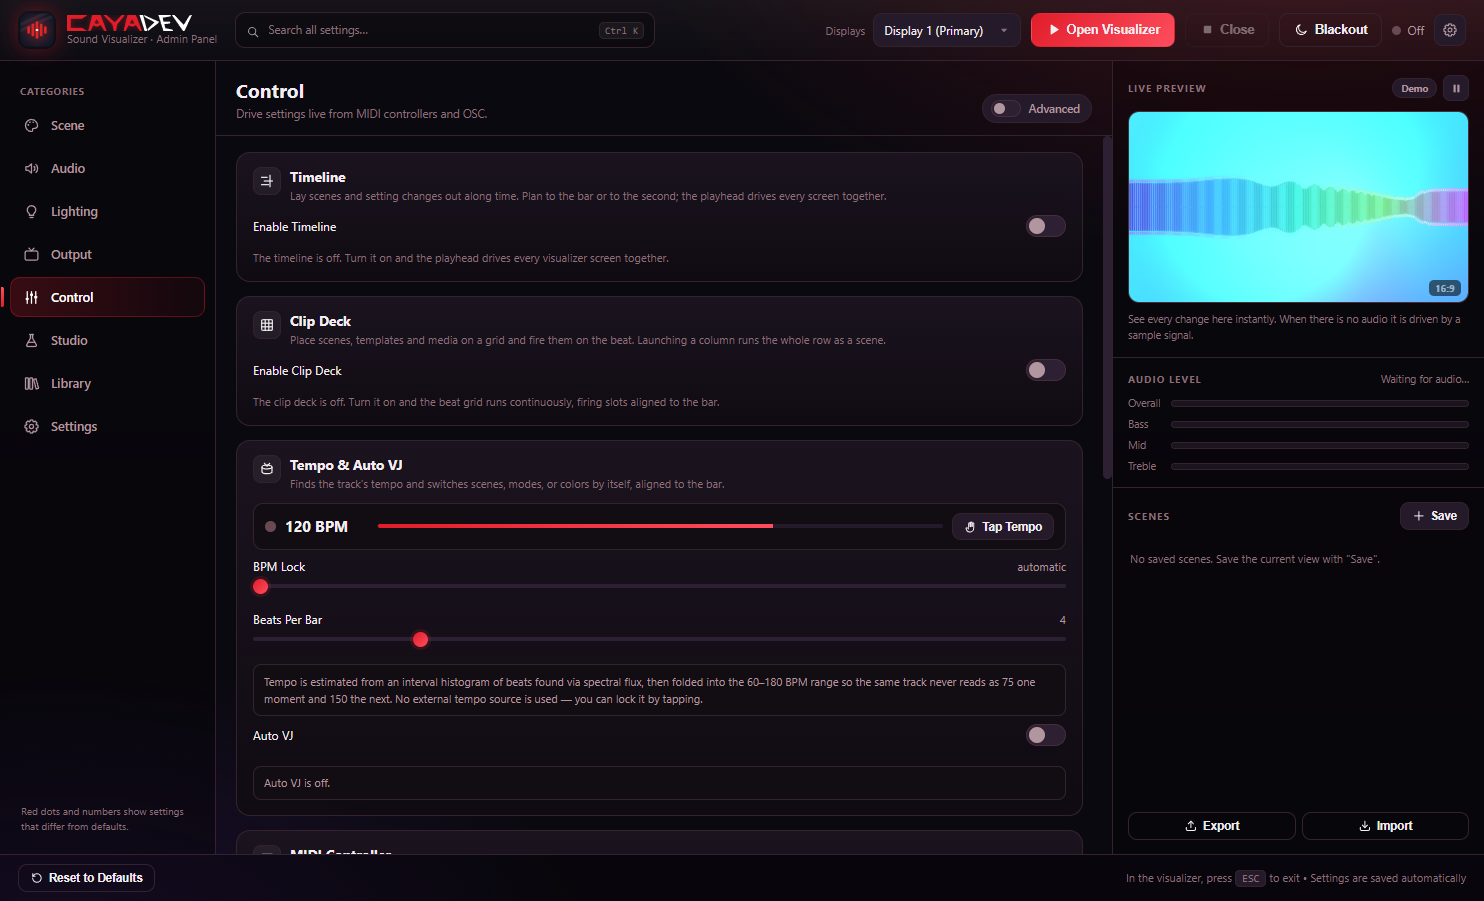
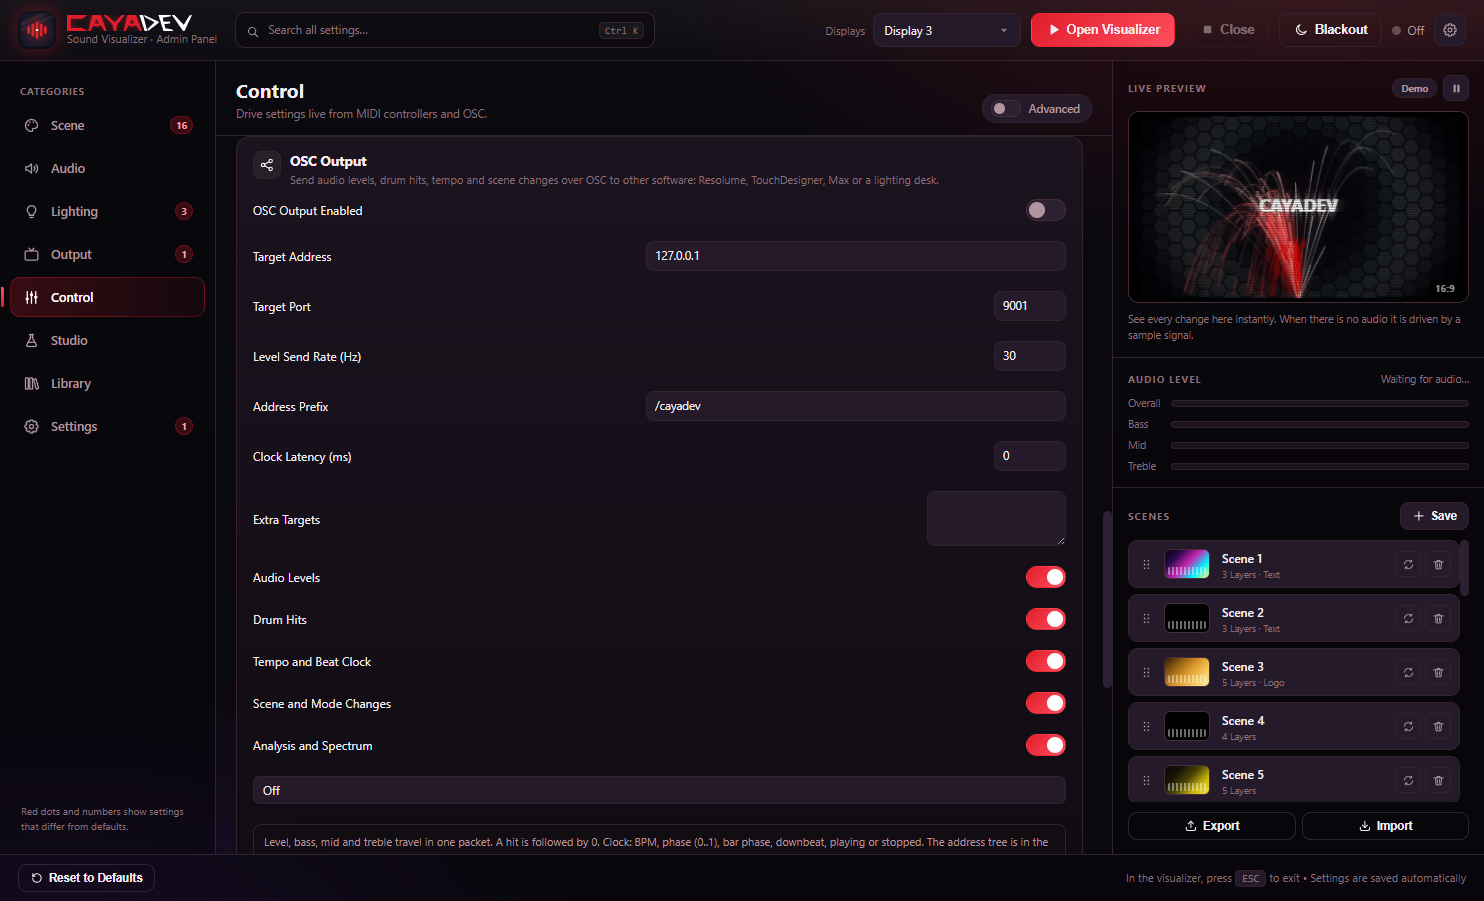
feat(control): emit drum hits when the capture frame arrives
Kick, snare and hat leave as soon as the native capture frame reaches
the main process, then a closing 0. A real UDP packet carried
/cayadev/hit/kick. File playback still sends from the window. The
control-page screenshot shows the OSC output card.

diff --git a/src/main/drum-hits.js b/src/main/drum-hits.js
@@ -1,0 +1,66 @@
+/*
+ * SoundVisualizer — CaYaDev Ses Görselleştirici
+ * Copyright (c) 2026 Çağan Turgut (CaYatur) — CaYaDev, https://cayadev.com
+ * https://github.com/CaYatur/SoundVisualizer
+ * SPDX-License-Identifier: MIT
+ */
+'use strict';
+/* Kick, trampet ve hi-hat. Yakalama yardımcısının yazdığı tayf karesi ana
+   sürece ulaşır ulaşmaz çalışır. Çizim karesini beklemez: kare hızı sınırı
+   bir vuruşu 30 ms'den fazla tutabiliyordu.
+
+   WASAPI geri çağrısının kendisi yalnız örnek kopyalar. Algılayıcı o iş
+   parçacığında değil, aynı karenin ana süreçteki tesliminde koşar. Ses
+   iş parçacığına FFT bindirmek kesinti yapardı. Bantlar ve eşikler
+   src/shared/analysis.js ile aynıdır. */
+
+const { Onset } = require('../shared/onset.js');
+
+const FFT_SIZE = 2048;
+
+function bandEnergy(spec, binHz, f0, f1) {
+  const i0 = Math.max(1, Math.floor(f0 / binHz));
+  const i1 = Math.min(spec.length - 1, Math.ceil(f1 / binHz));
+  if (i1 < i0) return 0;
+  let s = 0;
+  for (let i = i0; i <= i1; i++) s += spec[i] * spec[i];
+  return Math.sqrt(s / (i1 - i0 + 1));
+}
+
+class DrumHits {
+  constructor() {
+    this.kick = new Onset({ refractory: 0.09, floor: 0.3, gate: 0.008 });
+    this.snare = new Onset({ refractory: 0.09, floor: 0.3, gate: 0.008 });
+    this.hat = new Onset({ refractory: 0.045, floor: 0.3, gate: 0.008 });
+    this.lastAt = 0;
+    this.sent = { kick: 0, snare: 0, hat: 0 };
+    this.spec = new Float32Array(FFT_SIZE / 2);
+  }
+
+  /* freq: 1024 bayt, 0..255. now: ms. Değişmediyse null. Kapanış 0 da
+     bir değişikliktir ve bir kez döner. */
+  push(freq, sampleRate, now) {
+    if (!freq || freq.length < 8) return null;
+    const sr = sampleRate > 1000 ? sampleRate : 48000;
+    const binHz = sr / FFT_SIZE;
+    const n = Math.min(freq.length, this.spec.length);
+    const spec = this.spec;
+    for (let i = 0; i < n; i++) spec[i] = freq[i] / 255;
+    const dt = this.lastAt ? Math.min(0.25, Math.max(0.001, (now - this.lastAt) / 1000)) : 0.014;
+    this.lastAt = now;
+    const hits = {
+      kick: this.kick.push(bandEnergy(spec, binHz, 30, 130), dt),
+      snare: this.snare.push(bandEnergy(spec, binHz, 180, 900), dt),
+      hat: this.hat.push(bandEnergy(spec, binHz, 6000, 14000), dt),
+    };
+    let changed = false;
+    for (const k of ['kick', 'snare', 'hat']) {
+      if ((hits[k] > 0 || this.sent[k] > 0) && hits[k] !== this.sent[k]) changed = true;
+    }
+    if (!changed) return null;
+    this.sent = hits;
+    return hits;
+  }
+}
+
+module.exports = { DrumHits, bandEnergy, FFT_SIZE };

diff --git a/tests/drum-hits.test.js b/tests/drum-hits.test.js
@@ -1,0 +1,51 @@
+'use strict';
+/* Yakalama karesindeki davul vuruşu. Çizim karesine bağlı değil. */
+
+const test = require('node:test');
+const assert = require('node:assert');
+const dgram = require('dgram');
+const { DrumHits } = require('../src/main/drum-hits');
+const osc = require('../src/main/osc-out');
+
+function kickFrame() {
+  const freq = new Uint8Array(1024);
+  for (let i = 1; i <= 6; i++) freq[i] = 255;
+  return freq;
+}
+
+test('sessiz kareden sonra bas vuruşu ve kapanış 0', () => {
+  const d = new DrumHits();
+  const quiet = new Uint8Array(1024);
+  assert.strictEqual(d.push(quiet, 48000, 1000), null);
+  const hit = d.push(kickFrame(), 48000, 1014);
+  assert.ok(hit && hit.kick > 0, 'kick gelmedi');
+  assert.strictEqual(hit.snare, 0);
+  const close = d.push(kickFrame(), 48000, 1028);
+  assert.ok(close, 'kapanış yok');
+  assert.strictEqual(close.kick, 0);
+});
+
+test('yakalama vuruşu UDP ile /hit/kick olarak çıkar', async () => {
+  const sock = dgram.createSocket('udp4');
+  const got = [];
+  await new Promise((resolve) => sock.bind(0, '127.0.0.1', resolve));
+  const port = sock.address().port;
+  sock.on('message', (buf) => got.push(buf));
+  const d = new DrumHits();
+  const cfg = { enabled: true, host: '127.0.0.1', port, hits: true };
+  try {
+    await osc.start(cfg, { enabled: false, port: 1 });
+    d.push(new Uint8Array(1024), 48000, 2000);
+    const hit = d.push(kickFrame(), 48000, 2014);
+    assert.ok(hit && hit.kick > 0);
+    assert.ok(osc.hit(cfg, hit) > 0);
+    const deadline = Date.now() + 1000;
+    while (!got.length && Date.now() < deadline) await new Promise((r) => setTimeout(r, 20));
+    assert.ok(got.length > 0, 'paket gelmedi');
+    const raw = Buffer.concat(got);
+    assert.ok(raw.includes(Buffer.from('/cayadev/hit/kick\0')), 'adres pakette yok');
+  } finally {
+    await osc.stop();
+    sock.close();
+  }
+});

diff --git a/src/main/main.js b/src/main/main.js
@@ -12,6 +12,7 @@ const fs = require('fs');
 const url = require('url');
 const { spawn } = require('child_process');
 const nativeAudio = require('./native-audio');
+const { DrumHits } = require('./drum-hits');
 const dynamicLighting = require('./dynamic-lighting');
 const lightingIdentity = require('./lighting-identity');
 const streamServer = require('./stream-server');
@@ -1127,12 +1128,21 @@ function captureWanted() {
 
 // Seçili ses kaynak(lar)ının yakalamasını başlat; kareleri hem görselleştiriciye
 // hem de (istendiyse) yönetici panelinin önizlemesine ilet
+/* Yakalama karesi gelir gelmez vuruş. Çizim karesindeki algılayıcı,
+   dosya çalmada durur; yerel kare akarken o yol susar. */
+const nativeDrums = new DrumHits();
+
 function startVisualizerCapture() {
   const sources = configuredSources();
   lastCaptureSource = sources;
   nativeAudio.startCapture(
     sources,
     (frame) => {
+      if (!HW_OFF && frame && frame.freq && currentConfig && currentConfig.oscOut
+          && currentConfig.oscOut.enabled === true && currentConfig.oscOut.hits !== false) {
+        const hit = nativeDrums.push(frame.freq, frame.sampleRate, Date.now());
+        if (hit) oscOut.hit(currentConfig.oscOut, hit);
+      }
       if (SMOKE) {
         global.__smokeFrames = (global.__smokeFrames || 0) + 1;
         /* Kare iki kanalı da taşımalı (#566). Sessiz bir aygıtta sol ve sağ
@@ -7141,7 +7151,7 @@ async function runShots() {
     ['output', 'stream', 'panel-output.png'],
     ['library', 'templates', 'panel-templates.png'],
     ['studio', null, 'panel-studio.png'],
-    ['control', null, 'panel-control.png'],
+    ['control', 'oscOut', 'panel-control.png'],
   ];
 
   if (adminWin && !adminWin.isDestroyed()) {

diff --git a/src/visualizer/visualizer.js b/src/visualizer/visualizer.js
@@ -186,14 +186,15 @@
   let frameAcc = 0; // kare hızı sınırı için birikim sayacı
   let dpr = window.devicePixelRatio || 1;
   let meterT = 0;
-  /* Davul vuruşu ölçer iletisine binmez (#437). Çözümleme onu çizim
-     karesinde üretir; vuruş o karede, kapanış 0'ı da bir sonraki sessiz
-     karede gider. Ölçerin ~30 Hz'i bir vuruşu 33 ms bekletirdi. */
+  /* Davul vuruşu ölçer iletisine binmez (#437). Yerel yakalama karesi
+     vuruşu ana süreçte gider. Bu yol dosya çalma içindir: yakalama
+     karesi taze ise aynı vuruş ikinci kez gitmesin. */
   let hitSent = { kick: 0, snare: 0, hat: 0 };
 
   function oscHit(hits) {
     if (!cfg.oscOut || cfg.oscOut.enabled !== true || cfg.oscOut.hits === false) return;
     if (!window.api || !window.api.sendOscHit || !hits) return;
+    if (audio.lastFrameTs && performance.now() - audio.lastFrameTs < 250) return;
     const msg = { kick: 0, snare: 0, hat: 0 };
     let changed = false;
     for (const k of ['kick', 'snare', 'hat']) {

diff --git a/tests/osc-out.test.js b/tests/osc-out.test.js
@@ -459,6 +459,7 @@ test('bağlantı: ana süreç, panel ve görselleştirici çıkışı doğru yer
   assert.match(main, /oscOut\.stop\(\)\.catch/, 'kapanışta soket kapanıyor');
   assert.match(read('src/visualizer/visualizer.js'), /window\.api\.sendOscHit\(msg\)/);
   assert.match(main, /ipcMain\.on\('osc-hit'/);
+  assert.match(main, /nativeDrums\.push\(frame\.freq[\s\S]{0,700}sendToVisualizers\('native-audio'/);
   assert.match(main, /ipcMain\.on\('tempo:clock'/);
   assert.match(main, /oscOut\.clock\(currentConfig\.oscOut/);
   assert.match(read('src/admin/autovj.js'), /reportTempoClock\(oscClockPayload/);

diff --git a/README.tr.md b/README.tr.md
@@ -18,7 +18,7 @@ destesi**, ve **MCP üzerinden yapay zekâ kontrolü**.
 [![İndirme](https://img.shields.io/github/downloads/CaYatur/SoundVisualizer/total?label=indirme)](https://github.com/CaYatur/SoundVisualizer/releases)
 [![Lisans: MIT](https://img.shields.io/badge/Lisans-MIT-e11d2a.svg)](LICENSE)
 [![Platform](https://img.shields.io/badge/platform-Windows%20%7C%20macOS%20%7C%20Linux-111997.svg)](#hızlı-başlangıç)
-[![Test](https://img.shields.io/badge/test-2977%20geçiyor-2ea043.svg)](#testler)
+[![Test](https://img.shields.io/badge/test-2979%20geçiyor-2ea043.svg)](#testler)
 [![Electron](https://img.shields.io/badge/Electron-43-47848F.svg)](https://www.electronjs.org/)
 
 <a href="https://github.com/CaYatur/SoundVisualizer/releases/latest"><img src="https://img.shields.io/badge/%C4%B0ndir-Windows-0a84ff?style=for-the-badge" alt="Windows için indir" /></a>
@@ -740,7 +740,7 @@ Vuruş ve saat bundle'ı ana bilgisayar saatinin OSC zaman etiketini taşır. Di
 |---|---|---|---|
 | `/level` `/bass` `/mid` `/treble` | float | 0..1 | seçilen hızda, en çok 30 Hz, tek bundle |
 | `/spectrum` | 16 float | 0..1 | seviyelerle; 30 Hz–16 kHz logaritmik bant |
-| `/hit/kick` `/hit/snare` `/hit/hat` | float | 0..1, sonra 0 | vuruşu gören karede, ardından kapanış 0 |
+| `/hit/kick` `/hit/snare` `/hit/hat` | float | 0..1, sonra 0 | yakalama karesi gelince, ardından kapanış 0 |
 | `/silence` | int | 0 ya da 1 | seviye 400 ms boyunca 0,008 altında kalınca |
 | `/analysis/centroid` `/rolloff` `/flatness` `/crest` `/flux` `/spread` `/loudness` `/peak` `/dynamics` `/harmonic` `/percussive` `/width` | float | 0..1 | seviyelerle |
 | `/analysis/correlation` | float | -1..1 | seviyelerle |
@@ -787,7 +787,7 @@ sütunu iki tam sayı olarak alır; bunlar `/deck/active` ile aynı sayılardır
 
 <div align="center">
 
-![Kontrol sayfasında MIDI, OSC ve MCP](docs/screenshots/panel-control.png)
+![Kontrol sayfasında OSC çıkışı](docs/screenshots/panel-control.png)
 
 </div>
 
@@ -1690,7 +1690,7 @@ npm test
 npm start -- --smoke
 ```
 
-**2977 birim testi, hepsi geçiyor.** Satır çalıştırmak için değil, cevap denetlemek için yazıldılar:
+**2979 birim testi, hepsi geçiyor.** Satır çalıştırmak için değil, cevap denetlemek için yazıldılar:
 
 - **Formüller**, tanımlarından elle türetilmiş değerlerle sınanıyor — Viviani eğrisinin küre üzerinde
   kalması, simidin boru yarıçapı, Chladni'nin m↔n antisimetrisi, her çekicinin sınırlı kalması ve görüş

diff --git a/README.md b/README.md
@@ -17,7 +17,7 @@ layers and **40 GPU effects**, an **OBS overlay**, **Spout / Syphon**, **project
 [![Downloads](https://img.shields.io/github/downloads/CaYatur/SoundVisualizer/total?label=downloads)](https://github.com/CaYatur/SoundVisualizer/releases)
 [![License: MIT](https://img.shields.io/badge/License-MIT-e11d2a.svg)](LICENSE)
 [![Platform](https://img.shields.io/badge/platform-Windows%20%7C%20macOS%20%7C%20Linux-111997.svg)](#download)
-[![Tests](https://img.shields.io/badge/tests-2977%20passing-2ea043.svg)](#tests)
+[![Tests](https://img.shields.io/badge/tests-2979%20passing-2ea043.svg)](#tests)
 [![Electron](https://img.shields.io/badge/Electron-43-47848F.svg)](https://www.electronjs.org/)
 
 <a href="https://github.com/CaYatur/SoundVisualizer/releases/latest"><img src="https://img.shields.io/badge/Download-Windows-0a84ff?style=for-the-badge" alt="Download for Windows" /></a>
@@ -735,7 +735,7 @@ time tag of the host clock. Strings are UTF-8.
 |---|---|---|---|
 | `/level` `/bass` `/mid` `/treble` | float | 0..1 | at the chosen rate, up to 30 Hz, one bundle |
 | `/spectrum` | 16 floats | 0..1 | with the levels; log bands from 30 Hz to 16 kHz |
-| `/hit/kick` `/hit/snare` `/hit/hat` | float | 0..1, then 0 | on the frame that detects the hit, then a closing 0 |
+| `/hit/kick` `/hit/snare` `/hit/hat` | float | 0..1, then 0 | when the capture frame arrives, then a closing 0 |
 | `/silence` | int | 0 or 1 | after the level stays under 0.008 for 400 ms |
 | `/analysis/centroid` `/rolloff` `/flatness` `/crest` `/flux` `/spread` `/loudness` `/peak` `/dynamics` `/harmonic` `/percussive` `/width` | float | 0..1 | with the levels |
 | `/analysis/correlation` | float | -1..1 | with the levels |
@@ -784,7 +784,7 @@ the row and the column as two integers, the same numbers `/deck/active` reports.
 
 <div align="center">
 
-![MIDI, OSC and MCP on the Control page](docs/screenshots/panel-control.png)
+![OSC output on the Control page](docs/screenshots/panel-control.png)
 
 </div>
 
@@ -1685,7 +1685,7 @@ npm test
 npm start -- --smoke
 ```
 
-**2977 unit tests, all passing.** They are written to check answers, not to exercise lines:
+**2979 unit tests, all passing.** They are written to check answers, not to exercise lines:
 
 - **Formulas** are checked against values derived by hand from their definitions — Viviani's curve
   staying on its sphere, the torus tube radius, Chladni's m↔n antisymmetry, every attractor staying

diff --git a/ROADMAP.md b/ROADMAP.md
@@ -129,7 +129,7 @@ npm test
 npm start -- --smoke
 ```
 
-- **2977 unit tests, all passing** on `main`. 703 of those shipped in v3.1.0;
+- **2979 unit tests, all passing** on `main`. 703 of those shipped in v3.1.0;
   105 came with v3.1.1; 163 came with v3.1.2; 157 came with v3.1.3 — 1128 at
   that tag — 469 more with v3.1.4, most of them from the MilkDrop work, and 1103
   on `main` since.
